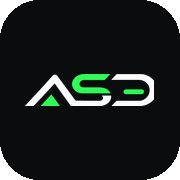
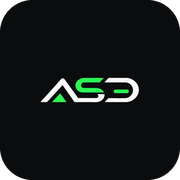
官網安裝改為 ASD 工具箱 APK 下載、更新圖示、移除 PWA

diff --git a/toolkit.html b/toolkit.html
@@ -16,7 +16,6 @@
 <link rel="icon" type="image/png" sizes="32x32" href="icons/favicon-32.png">
 <link rel="icon" type="image/png" sizes="16x16" href="icons/favicon-16.png">
 <link rel="apple-touch-icon" sizes="180x180" href="icons/apple-touch-icon.png">
-<link rel="manifest" href="manifest.json">
 <meta name="theme-color" content="#0A0C0E">
 <link rel="preconnect" href="https://fonts.googleapis.com">
 <link href="https://fonts.googleapis.com/css2?family=Noto+Sans+TC:wght@400;500;700;900&family=IBM+Plex+Mono:wght@400;500;600&display=swap" rel="stylesheet">
@@ -359,11 +358,11 @@
     <section class="hero">
       <div class="eyebrow">ASD TOOLBOX — ASD 工具箱</div>
       <h1>更新、教學、聯絡，<br>都在這一頁。</h1>
-      <p>常用軟體的最新版本，和遇到問題的逐步排除方式。內容由工作室持續維護，加入主畫面後，離線也能查教學。</p>
+      <p>常用軟體的最新版本，和遇到問題的逐步排除方式。內容由工作室持續維護。Android 手機可安裝 ASD 工具箱 App，直接在手機上查看。</p>
       <div class="cta-row">
         <a class="btn primary" href="#updates">看軟體更新</a>
         <a class="btn" href="#guides">查教學</a>
-        <button class="btn" id="installBtn" type="button" hidden>加入主畫面</button>
+        <a class="btn" id="appBtn" href="#app">安裝 ASD 工具箱 App</a>
       </div>
     </section>
 
@@ -386,6 +385,22 @@
         <button id="qClear" type="button" aria-label="清除搜尋" hidden>✕</button>
       </label>
     </div>
+
+    <section id="app" class="panel reveal">
+      <div class="eyebrow">APP — 安裝工具箱</div>
+      <h2 style="margin:6px 0 10px;">安裝 ASD 工具箱 App（Android）</h2>
+      <p id="appNote">App 內含軟體版本偵測、教學、手機設定捷徑，不需要透過瀏覽器開啟網站。目前僅支援 Android 手機；iPhone 請直接使用本頁。</p>
+      <div class="cta-row" style="margin:14px 0;">
+        <a class="btn primary" id="apkBtn" href="https://github.com/beetlepan/asd-toolbox/releases/latest/download/ASD-Toolbox.apk">下載 ASD 工具箱（APK）</a>
+      </div>
+      <ol style="padding-left:20px;line-height:1.9;">
+        <li>點上方按鈕下載 APK（瀏覽器若提示「這類檔案可能有害」，選「仍要下載」）。</li>
+        <li>下載完成後點開檔案；系統若提示「不允許安裝未知來源應用程式」，點「設定」，開啟該瀏覽器（或檔案管理員）的「允許安裝」。</li>
+        <li>返回後點「安裝」。若出現 Play 保護機制警告，選「仍要安裝」（App 為工作室自行發佈，不經 Play 商店）。</li>
+        <li>安裝完成後，從桌面開啟「ASD 工具箱」。之後軟體版本與教學會自動更新，不需重裝。</li>
+      </ol>
+      <p style="opacity:.7;font-size:13px;">安裝完成後，可到手機設定關閉瀏覽器的「安裝未知來源」權限。</p>
+    </section>
 
     <section id="updates" class="panel reveal">
       <div class="panel-head">UPDATES — 軟體更新 <span class="right mono" id="updatedAt"></span></div>
@@ -699,14 +714,12 @@
     }else{ $$('.reveal').forEach(function(el){ el.classList.add('in'); }); }
   }
 
-  /* ---------- Install prompt ---------- */
-  var deferred = null;
-  window.addEventListener('beforeinstallprompt', function(e){ e.preventDefault(); deferred = e; $('#installBtn').hidden = false; });
-  $('#installBtn').addEventListener('click', function(){
-    if(!deferred) return; deferred.prompt();
-    deferred.userChoice.finally(function(){ deferred = null; $('#installBtn').hidden = true; });
-  });
-  window.addEventListener('appinstalled', function(){ $('#installBtn').hidden = true; });
+  /* ---------- App 安裝區：非 Android 時改說明 ---------- */
+  if(!/Android/i.test(navigator.userAgent)){
+    $('#apkBtn').textContent = '請用 Android 手機開啟本頁下載';
+    $('#apkBtn').removeAttribute('href');
+    $('#apkBtn').style.opacity = '.6';
+  }
 
   window.addEventListener('online', function(){ setConn('', '連線正常'); });
   window.addEventListener('offline', function(){ setConn('off', '離線模式'); });
@@ -739,7 +752,8 @@
     });
 
   if('serviceWorker' in navigator){
-    window.addEventListener('load', function(){ navigator.serviceWorker.register('/sw.js').catch(function(){}); });
+    navigator.serviceWorker.getRegistrations().then(function(rs){ rs.forEach(function(r){ r.unregister(); }); }).catch(function(){});
+    if(window.caches){ caches.keys().then(function(ks){ ks.forEach(function(k){ caches.delete(k); }); }).catch(function(){}); }
   }
 })();
 </script>

diff --git a/index.html b/index.html
@@ -20,7 +20,6 @@
 <link rel="icon" type="image/png" sizes="32x32" href="icons/favicon-32.png">
 <link rel="icon" type="image/png" sizes="16x16" href="icons/favicon-16.png">
 <link rel="apple-touch-icon" sizes="180x180" href="icons/apple-touch-icon.png">
-<link rel="manifest" href="manifest.json">
 <meta name="theme-color" content="#0A0C0E">
 <link rel="preconnect" href="https://fonts.googleapis.com">
 <link href="https://fonts.googleapis.com/css2?family=Noto+Sans+TC:wght@400;500;700;900&family=IBM+Plex+Mono:wght@400;500;600&display=swap" rel="stylesheet">
@@ -840,7 +839,8 @@ function escapeAttr(str){
 
 if('serviceWorker' in navigator){
   window.addEventListener('load', () => {
-    navigator.serviceWorker.register('/sw.js').catch(() => {});
+    navigator.serviceWorker.getRegistrations().then(rs => rs.forEach(r => r.unregister())).catch(() => {});
+    if (window.caches) caches.keys().then(ks => ks.forEach(k => caches.delete(k))).catch(() => {});
   });
 }
 </script>
